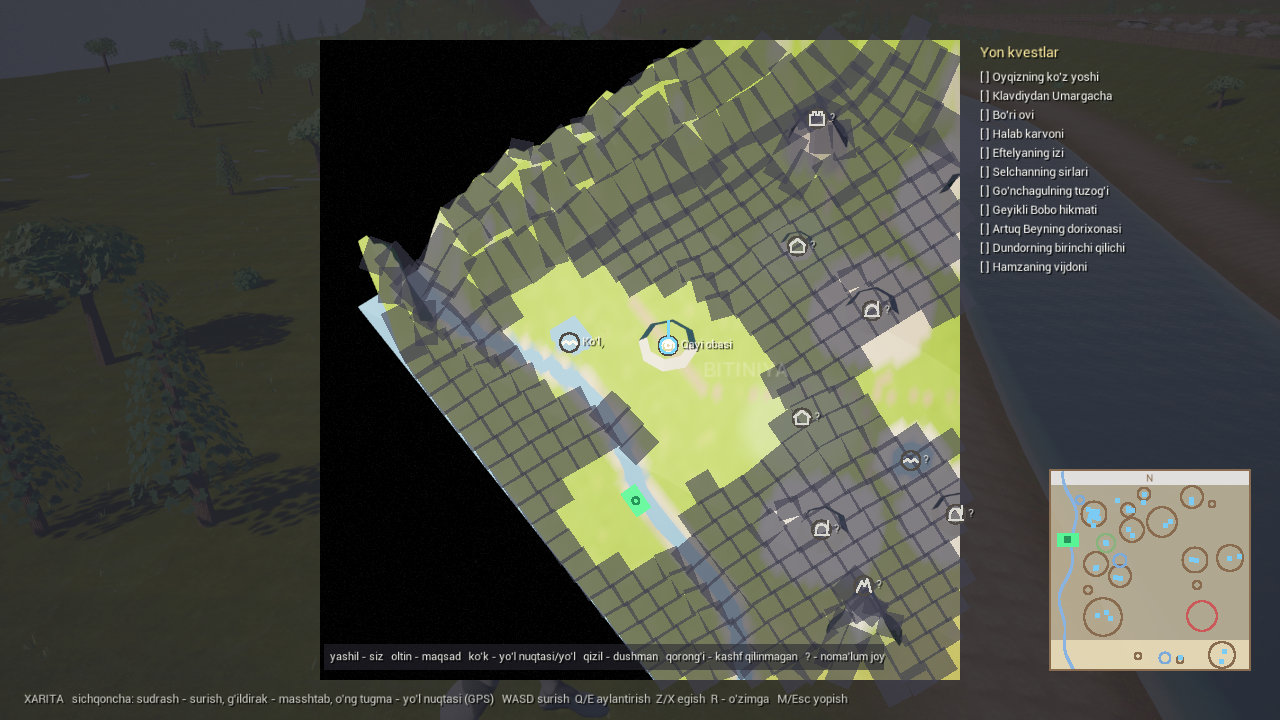
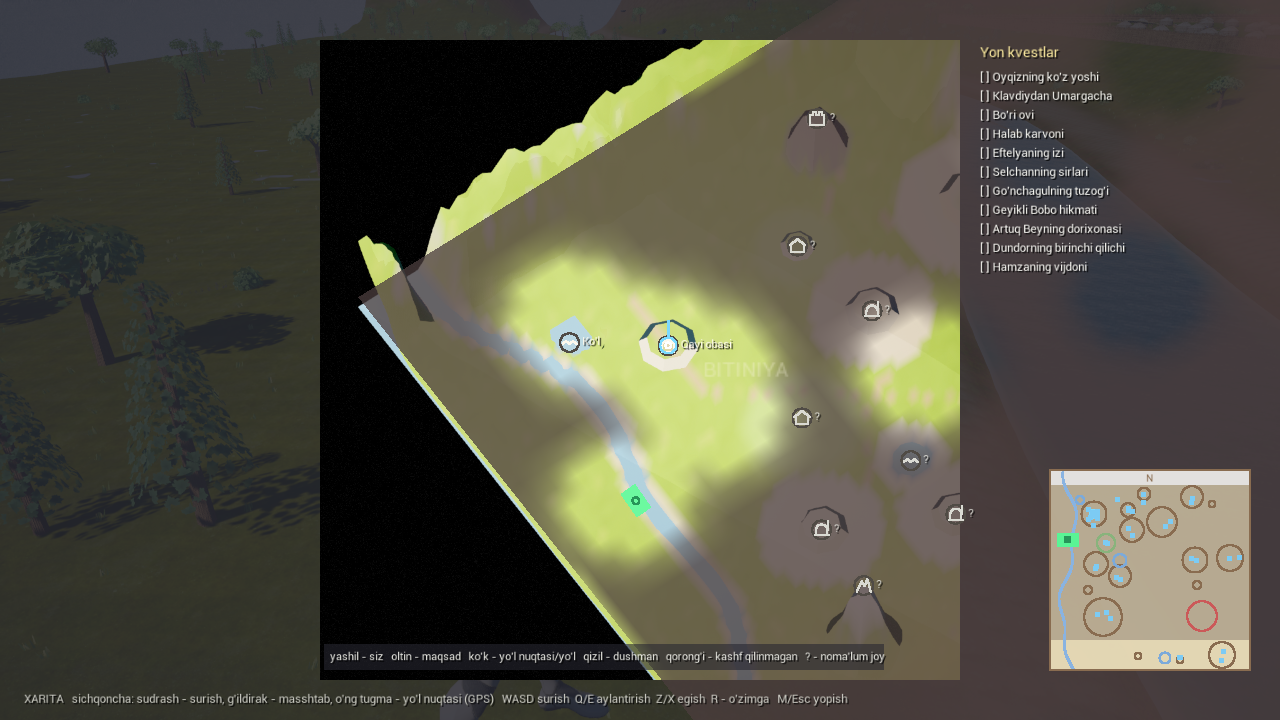
UE: xarita kashfiyot qatlami - 40x40 yumshoq tekstura, affin proyeksiya (plitalar chizig'i yo'q)

diff --git a/tools/unreal/Source/Ertugrul/ErtHUD.cpp b/tools/unreal/Source/Ertugrul/ErtHUD.cpp
@@ -582,22 +582,22 @@ void AErtHUD::DrawMap(float SW, float SH, float Sc)
 		AErtWorldBuilder* W = Cast<AErtWorldBuilder>(UGameplayStatics::GetActorOfClass(GetWorld(), AErtWorldBuilder::StaticClass()));
 		auto Hz = [&](float E, float N) { return W ? W->HeightAt(E, N) : 0.f; };
 		auto Proj = [&](float E, float N, float& X, float& Y) { float U, V; const bool bIn = M3->Project(AErtWorldBuilder::PlanToWorld(E, N, Hz(E, N)), U, V); X = X0 + U * S; Y = Y0 + V * S; return bIn; };
-		// Kashf qilinmagan hududlar (fog of war): 50 m hujayralar
+		// Kashf qilinmagan hududlar (fog of war): 40x40 tekstura, dunyo burchaklari xaritaga proyeksiya (affin) - ikki uchburchak
 		if (GM)
 		{
-			for (int32 y = 0; y < AErtGameMode::VisN; ++y)
-				for (int32 x = 0; x < AErtGameMode::VisN; ++x)
-				{
-					if (GM->Visited[y * AErtGameMode::VisN + x]) continue;
-					const float E = -1000.f + (x + 0.5f) * 50.f, N = -1000.f + (y + 0.5f) * 50.f;
-					float X, Y; if (!Proj(E, N, X, Y)) continue;
-					// Hujayra o'qlari ekranda (burilish va egilishga mos): E o'qi va N o'qi proyeksiyasi
-					float Xe, Ye, Xn, Yn; Proj(E + 50.f, N, Xe, Ye); Proj(E, N + 50.f, Xn, Yn);
-					const FVector2D DE(Xe - X, Ye - Y), DN(Xn - X, Yn - Y);
-					const float Ang = FMath::RadiansToDegrees(FMath::Atan2(DE.Y, DE.X));
-					const float Le = DE.Size() * 1.12f, Ln = DN.Size() * 1.12f;
-					FCanvasTileItem F(FVector2D(X - Le * 0.5f, Y - Ln * 0.5f), FVector2D(Le, Ln), FLinearColor(0.05f, 0.05f, 0.08f, 0.6f)); F.BlendMode = SE_BLEND_Translucent; F.Rotation = FRotator(0, Ang, 0); F.PivotPoint = FVector2D(0.5f, 0.5f); Canvas->DrawItem(F);
-				}
+			if (!GM->FogTex) GM->UpdateFogTex();
+			if (GM->FogTex && GM->FogTex->GetResource())
+			{
+				auto Pt = [&](float E, float N) { float U, V; M3->Project(AErtWorldBuilder::PlanToWorld(E, N, 20.f), U, V); return FVector2D(X0 + U * S, Y0 + V * S); };
+				// Tekstura: x = E (-1000..1000), y = N (-1000..1000); UV (0,0) = (-1000,-1000)
+				const FVector2D P00 = Pt(-1000.f, -1000.f), P10 = Pt(1000.f, -1000.f), P11 = Pt(1000.f, 1000.f), P01 = Pt(-1000.f, 1000.f);
+				FCanvasUVTri T1, T2;
+				T1.V0_Pos = P00; T1.V0_UV = FVector2D(0, 0); T1.V1_Pos = P10; T1.V1_UV = FVector2D(1, 0); T1.V2_Pos = P11; T1.V2_UV = FVector2D(1, 1);
+				T2.V0_Pos = P00; T2.V0_UV = FVector2D(0, 0); T2.V1_Pos = P11; T2.V1_UV = FVector2D(1, 1); T2.V2_Pos = P01; T2.V2_UV = FVector2D(0, 1);
+				T1.V0_Color = T1.V1_Color = T1.V2_Color = T2.V0_Color = T2.V1_Color = T2.V2_Color = FLinearColor(1, 1, 1, 0.75f);
+				TArray<FCanvasUVTri> Tris; Tris.Add(T1); Tris.Add(T2);
+				FCanvasTriangleItem Fog(Tris, GM->FogTex->GetResource()); Fog.BlendMode = SE_BLEND_Translucent; Canvas->DrawItem(Fog);
+			}
 		}
 		// Viloyat nomlari (xira, katta)
 		const FLinearColor Region(0.95f, 0.9f, 0.75f, 0.35f);

diff --git a/tools/unreal/Source/Ertugrul/ErtGameMode.cpp b/tools/unreal/Source/Ertugrul/ErtGameMode.cpp
@@ -27,6 +27,7 @@
 #include "Engine/Engine.h"
 #include "ErtMission.h"
 #include "Engine/World.h"
+#include "Engine/Texture2D.h"
 #include "Kismet/GameplayStatics.h"
 #include "Misc/CommandLine.h"
 #include "Misc/FileHelper.h"
@@ -386,10 +387,11 @@ void AErtGameMode::Tick(float Dt)
 			{
 				const int32 Xi = X + dx, Yi = Y + dy;
 				if (Xi < 0 || Yi < 0 || Xi >= VisN || Yi >= VisN || dx * dx + dy * dy > 5) continue;
-				Visited[Yi * VisN + Xi] = 1;
+				if (!Visited[Yi * VisN + Xi]) { Visited[Yi * VisN + Xi] = 1; bFogDirty = true; }
 			}
 		}
 	}
+	if (bFogDirty && Menu == EErtMenu::Map) UpdateFogTex();
 	if (bWaypoint) if (APawn* P = UGameplayStatics::GetPlayerPawn(this, 0)) if (FVector::Dist2D(P->GetActorLocation(), Waypoint) < 400.f) ClearWaypoint();   // yetib keldi
 	// GPS: faol maqsadga yo'l
 	if (AErtGps* G = AErtGps::Get(GetWorld()))
@@ -747,4 +749,35 @@ void AErtGameMode::OnSkip()
 	if (Dialog.IsActive()) { EndDialog(); return; }
 	if (Cutscene && Cutscene->IsPlaying()) { Cutscene->Skip(); return; }
 	MenuToggle();
+}
+
+
+void AErtGameMode::UpdateFogTex()
+{
+	bFogDirty = false;
+	if (!FogTex)
+	{
+		FogTex = UTexture2D::CreateTransient(VisN, VisN, PF_B8G8R8A8);
+		FogTex->Filter = TF_Bilinear;
+		FogTex->SRGB = false;
+		FogTex->AddToRoot();
+	}
+	FTexture2DMipMap& Mip = FogTex->GetPlatformData()->Mips[0];
+	uint8* Data = (uint8*)Mip.BulkData.Lock(LOCK_READ_WRITE);
+	for (int32 y = 0; y < VisN; ++y)
+		for (int32 x = 0; x < VisN; ++x)
+		{
+			// Yumshoq chekka: qo'shni kashf qilingan hujayralar bo'lsa alfa kamayadi
+			float A = Visited[y * VisN + x] ? 0.f : 1.f;
+			if (A > 0.f)
+			{
+				int32 Nb = 0;
+				for (int32 dy = -1; dy <= 1; ++dy) for (int32 dx = -1; dx <= 1; ++dx) { const int32 X2 = x + dx, Y2 = y + dy; if (X2 >= 0 && Y2 >= 0 && X2 < VisN && Y2 < VisN && Visited[Y2 * VisN + X2]) ++Nb; }
+				A = FMath::Max(0.35f, 1.f - Nb * 0.12f);
+			}
+			uint8* P = Data + (y * VisN + x) * 4;
+			P[0] = 12; P[1] = 12; P[2] = 18; P[3] = (uint8)(A * 255.f);
+		}
+	Mip.BulkData.Unlock();
+	FogTex->UpdateResource();
 }

diff --git a/tools/unreal/Source/Ertugrul/ErtGameMode.h b/tools/unreal/Source/Ertugrul/ErtGameMode.h
@@ -131,6 +131,10 @@ public:
 	TArray<uint8> Visited;
 	bool IsVisited(float E, float N) const { const int32 X = FMath::Clamp((int32)((E + 1000.f) / 50.f), 0, VisN - 1), Y = FMath::Clamp((int32)((N + 1000.f) / 50.f), 0, VisN - 1); return Visited.IsValidIndex(Y * VisN + X) && Visited[Y * VisN + X] != 0; }
 	float VisitT = 0.f;
+	/** Kashfiyot teksturasi (40x40, oq = kashf qilinmagan) - HUD xaritada affin proyeksiya bilan chiziladi */
+	UPROPERTY(Transient) TObjectPtr<class UTexture2D> FogTex;
+	bool bFogDirty = true;
+	void UpdateFogTex();
 	/** HUD xarita kvadrati (X0, Y0, S) - sichqoncha koordinatalari uchun */
 	FVector MapRect = FVector::ZeroVector;
 	FVector2D MapMouse = FVector2D(-1, -1);   // xarita ichidagi [0..1] sichqoncha, tashqarida -1
